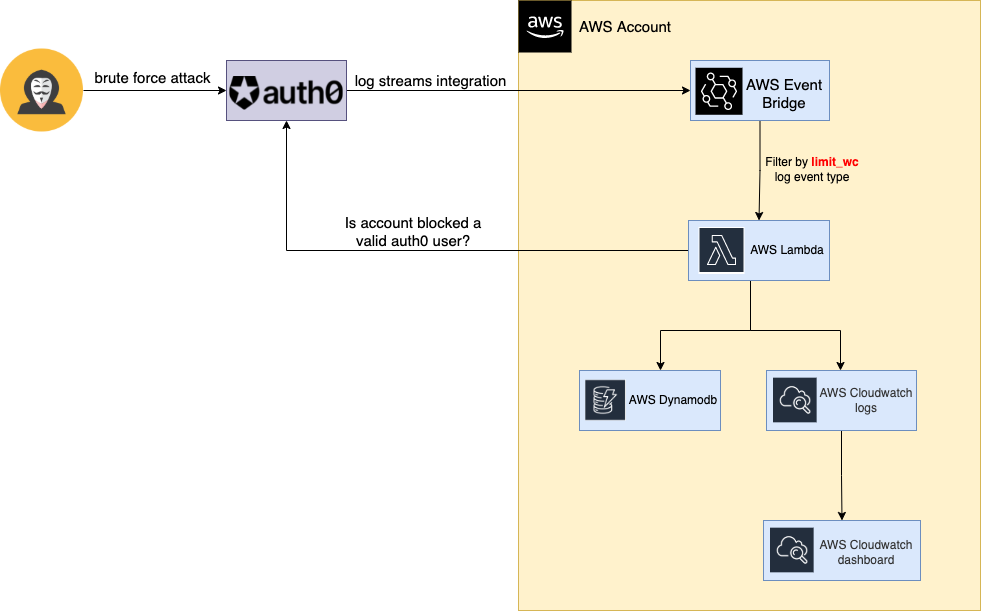
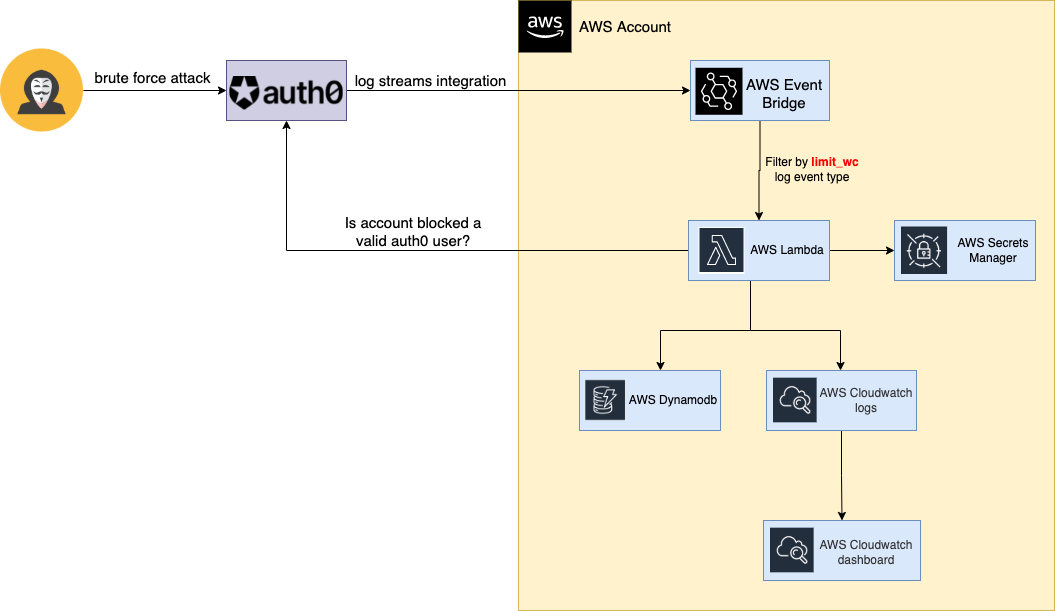
add serverless framework

diff --git a/src/logs/auth0.js b/src/logs/auth0.js
@@ -1,32 +1,63 @@
+const AWS = require("aws-sdk");
 const axios = require('axios')
+
+const dynamodb = new AWS.DynamoDB.DocumentClient();
+const authenticate = require('../services/authentication')
 
 'use strict';
 
 module.exports.handler = async (event) => {
 
-
   try {
 
+    const { access_token, domain } = await authenticate()
     const email = event.detail.data.user_name;
     const headers = {
-        'Authorization': 'Bearer ' + process.env.TOKEN
+        'Authorization': 'Bearer ' + access_token
     }
     const params = {
         email
     }
-    const url = 'https://'+ process.env.AUTH0_NX_DOMAIN +'/api/v2/users-by-email'
+    const url = 'https://'+ domain +'/api/v2/users-by-email'
 
     const resp = await axios.get(url, { headers, params })
 
     if (resp.data.length > 0) {
+        const valid_email = {
+          TableName: process.env.DYNAMODB_TABLE,
+          Key: {
+            email,
+          }
+        }
+        const items = await dynamodb.get(valid_email).promise();
+        if (items.Item) {
+          const update_email = {
+            TableName: process.env.DYNAMODB_TABLE,
+            Key: {
+                email
+            },
+            UpdateExpression: "set attempts = attempts + :val",
+            ExpressionAttributeValues: {
+                ":val": 1
+            },
+          }
+          await dynamodb.update(update_email).promise();
+        } else {
+          const add_email = {
+            TableName: process.env.DYNAMODB_TABLE,
+            Item: {
+              email,
+              attempts: 1
+            }
+          }
+          await dynamodb.put(add_email).promise();
+        }
         const data = {
-            email
+          email
         }
         console.log(JSON.stringify(data, null, 2))
     }
-
   } catch (err) {
     console.log(err);
   }
-
 }

diff --git a/src/services/secrets.js b/src/services/secrets.js
@@ -1,0 +1,40 @@
+const AWS = require('aws-sdk')
+const region = process.env.REGION
+const secretId = process.env.SECRET_ID
+
+const client = new AWS.SecretsManager({
+    region: region
+});
+
+module.exports.getSecrets = async () => {
+    const secrets = await client.getSecretValue({
+        SecretId: secretId
+    }).promise()
+    return {
+        domain: JSON.parse(secrets.SecretString).domain,
+        client_id: JSON.parse(secrets.SecretString).client_id,
+        client_secret: JSON.parse(secrets.SecretString).client_secret,
+        audience: JSON.parse(secrets.SecretString).audience,
+        access_token: JSON.parse(secrets.SecretString).access_token || '',
+        expiration_date: JSON.parse(secrets.SecretString).expiration_date || ''
+    }
+}
+
+module.exports.updateSecrets = async (access_token, expiration_date) => {
+    const secrets = await client.getSecretValue({
+        SecretId: secretId
+    }).promise()
+    const data = {
+        domain: JSON.parse(secrets.SecretString).domain,
+        client_id: JSON.parse(secrets.SecretString).client_id,
+        client_secret: JSON.parse(secrets.SecretString).client_secret,
+        audience: JSON.parse(secrets.SecretString).audience,
+        access_token,
+        expiration_date
+    }
+    const params = {
+        SecretId: secretId,
+        SecretString: JSON.stringify(data)
+    }
+    await client.updateSecret(params).promise()
+}

diff --git a/src/services/authentication.js b/src/services/authentication.js
@@ -1,0 +1,34 @@
+const axios = require("axios");
+
+const secrets = require('./secrets')
+
+const date = new Date()
+
+async function get_token(getSecrets) {
+    const body = {
+        grant_type: 'client_credentials',
+        client_id: getSecrets.client_id,
+        client_secret: getSecrets.client_secret,
+        audience: getSecrets.audience,
+    }
+    const url = `https://${getSecrets.domain}/oauth/token`
+    const response = await axios.post(url, body)
+    const access_token = await response.data.access_token
+    await secrets.updateSecrets(access_token, date.setTime(date.getTime() + (23.9 * 60 * 60 * 1000)))
+    return { access_token, audience: getSecrets.audience }
+}
+
+module.exports = async () => {
+    try {
+        const getSecrets = await secrets.getSecrets()
+        if (!getSecrets.access_token) {
+            return await get_token(getSecrets)
+        } else if (getSecrets.expiration_date < date.getTime()) {
+            return await get_token(getSecrets)
+        } else {
+            return await getSecrets.access_token
+        }
+    } catch (err) {
+        console.error(err.message)
+    }
+}

diff --git a/README.md b/README.md
@@ -1,9 +1,37 @@
-# Table of contents
+# Auth0 valid blocked users - Serverless deployment
 
+Auth0 valid blocked users is an integration and automation to cover a limitation to identify auth0 valid users after a brute force attack. It is deployed using serverless framework in AWS. It uses different AWS services as: Event Brigde, Lambda, Secrets Manager, CloudWatch, etc, you can check [AWS Architecture diagram](#aws-architecture-diagram).
 
-* []
+## Table of contents
+
+* [Limitation](#limitation)
+* [Flowchart](#flowchart)
+* [AWS Architecture diagram](#aws-architecture-diagram)
+* [How to deploy the automation](#how-to-deploy-the-automation)
+  * [Requirements](#requirements)
+  * [Steps](#steps)
+* [Donations](#coffee-donations)
+* [Contributors](#contributors)
+* [Contributing](#contributing)
+* [License](#license)
 
 ## Limitation
+
+Auth0 brute force protection generates a log after an email is blocked, the limitation is that it doesn't verify if the email blocked is a valid auth0 user in the tenant. So if you need analyze the valid users after a brute force attack you need to do manual tasks or create a script.
+
+**Example**
+
+**Step1.- Brute force attack**
+
+![Failed attempts](./img/failed_attempts.jpg)
+
+**Step2.- Auth0 log**
+
+![Auth0 log](./img/auth0_log.jpg)
+
+**Step3.- No user found**
+
+![Auth0 log](./img/no_user_found.jpg)
 
 ## Flowchart
 
@@ -13,7 +41,14 @@
 
 ![AWS Architecture Diagram](./img/aws_architecture_diagram.png)
 
-## Creating the service
+## How to deploy the automation
+
+### Requirements
+
+* AWS account
+* Auth0 tenant
+
+### Steps
 
 ## :coffee: Donations
 
